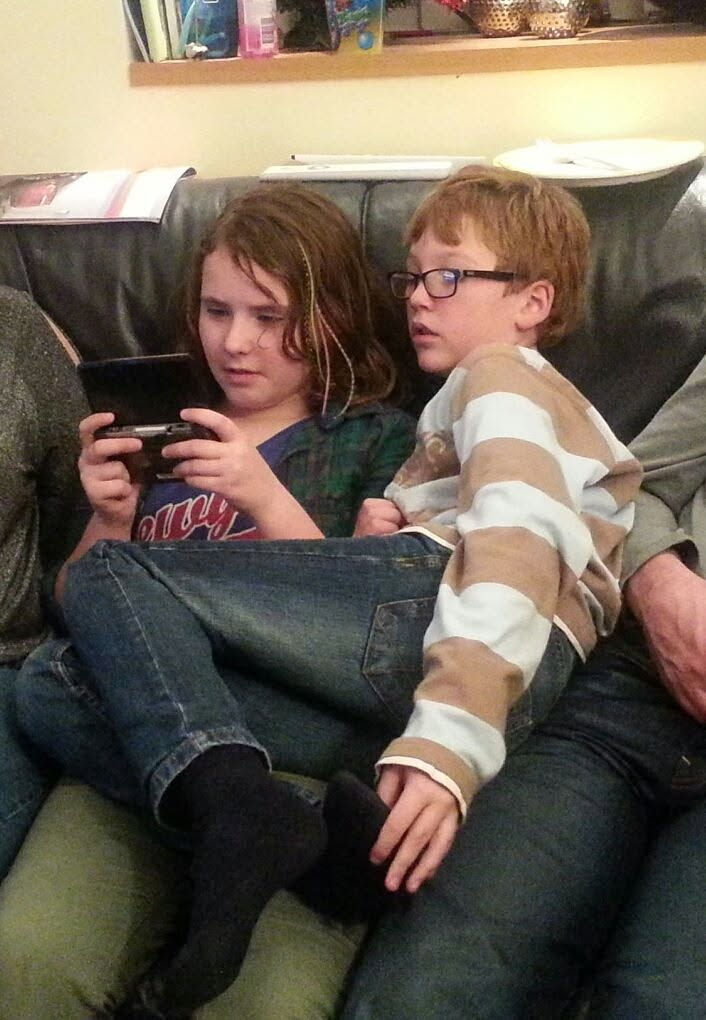
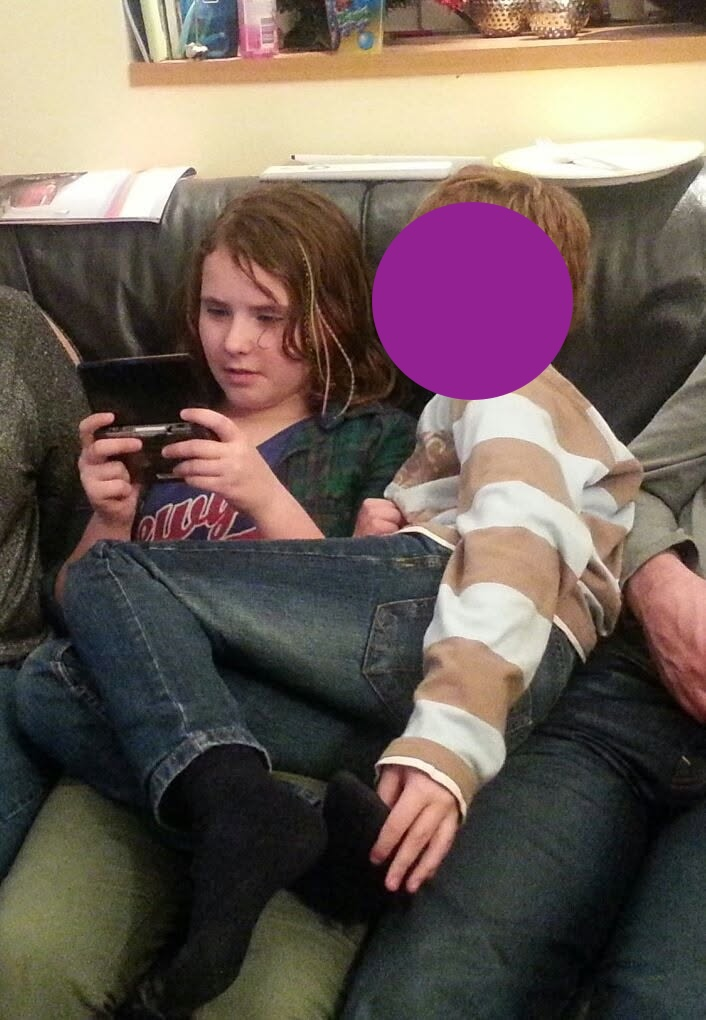
added image and text to aboutme

Changed region(s): [[0.5297, 0.1824, 0.8102, 0.3951]]

diff --git a/aboutme.html b/aboutme.html
@@ -24,7 +24,7 @@
         <figure>
           <img
             src="assets/images/siteimages/solopixel.png"
-            alt="Pixel-art portrait of Solo"
+            alt="Pixel-art portrait of Laura"
           />
 
           <figcaption>Laura</figcaption>
@@ -40,7 +40,27 @@
       </section>
       <details>
         <summary>About Laura!</summary>
-        <p>balalaljfldsa</p>
+        <p>
+          I grew up with gaming, I had a DS and all the nintendo handhelds that
+          followed. My dad and I used to spend our time behind the computer
+          playing games! A love for games really was something I was raised
+          with! Even now, over 20 years after the release of the DS (and exactly
+          20 years since I got my DS!), I still play and cherish those games
+          dearly! Seeing how these games hold up and stand the test of time is
+          so cool! These games also are so dear to me because they give me a way
+          to still feel connected to my dad, even though he is no longer here.
+          Seeing his name on the leaderboards on my DS makes it feel like I'm
+          still the little kid trying to beat his time in Mario Kart (and
+          failing miserably). And I think thats the beautiful thing about
+          (older) games, they help you stay connected to people, memories, but
+          most importantly, yourself.
+
+          <img
+            id="childhood"
+            src="assets/images/siteimages/childhood.jpg"
+            alt="Young Laura on the couch with her childhood friend playing the DS Lite"
+          />
+        </p>
       </details>
       <article>
         <h3>STATS</h3>

diff --git a/assets/style/style.css b/assets/style/style.css
@@ -370,6 +370,8 @@ progress {
   accent-color: var(--color-text);
 }
 
+#childhood {
+}
 /* ==================================================
      * MARK: INVENTORY 
    ================================================== */
